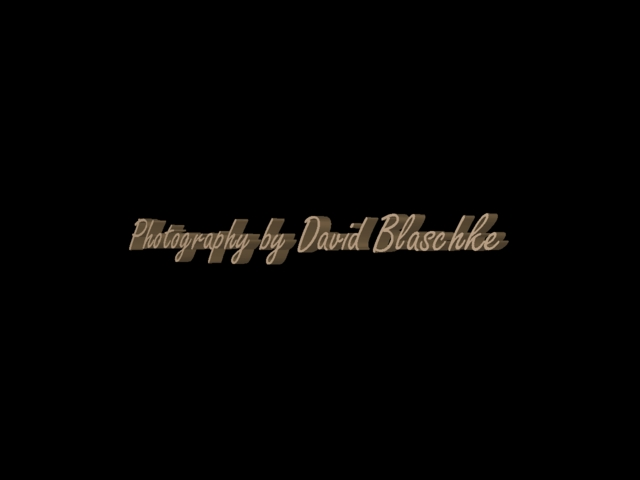
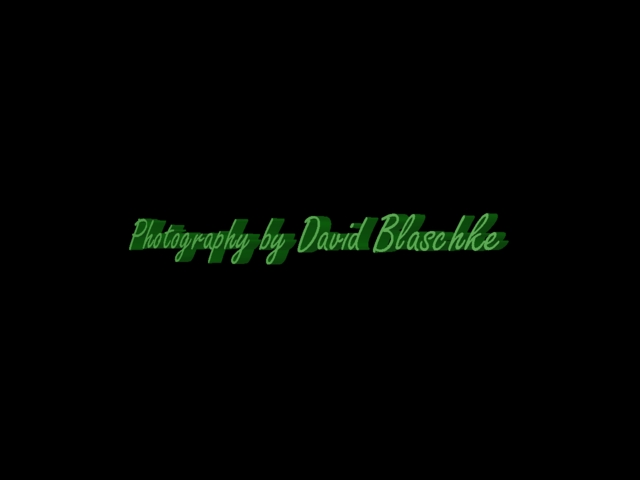
Upgrade background

Changed region(s): [[0.1875, 0.4375, 0.8125, 0.5625]]

diff --git a/css/slideshow.css b/css/slideshow.css
@@ -1,9 +1,13 @@
 body {
   background-image: url("../images/background.jpg");
-  background-color: #FFFFFF;
-  color: #000000;
+  background-color: #000000;
+  color: #FFFFFF;
   margin: auto;
   max-width: max-content;
+  background-repeat: no-repeat;
+  background-size: 100% 100%;
+  background-position: center bottom;
+  background-attachment: fixed;
 }
 
 #outerTable td {
@@ -19,7 +23,7 @@ body {
   vertical-align: middle;
   display: block;
   text-wrap: wrap;
-  text-shadow: 4px 4px 4px rgba(68, 68, 68, 0.5);
+  text-shadow: 5px 5px 5px rgba(255, 255, 255, 0.5);
 }
 
 #innerTable td {
